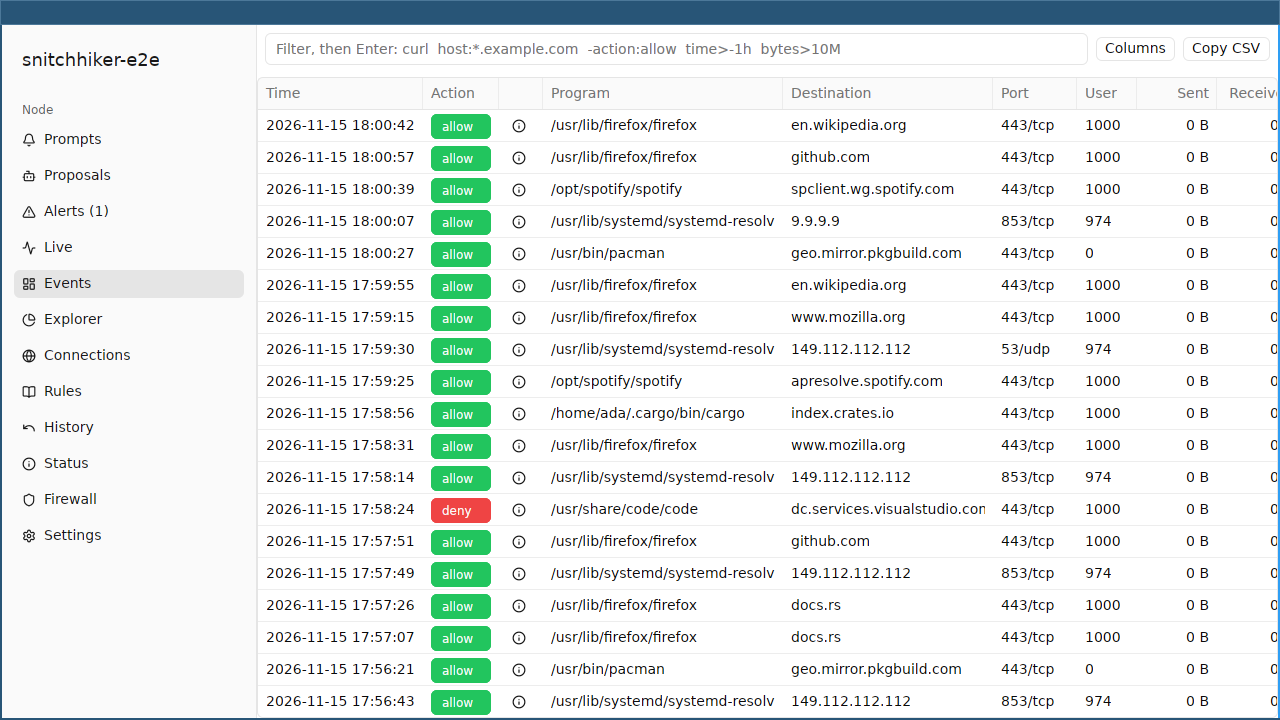
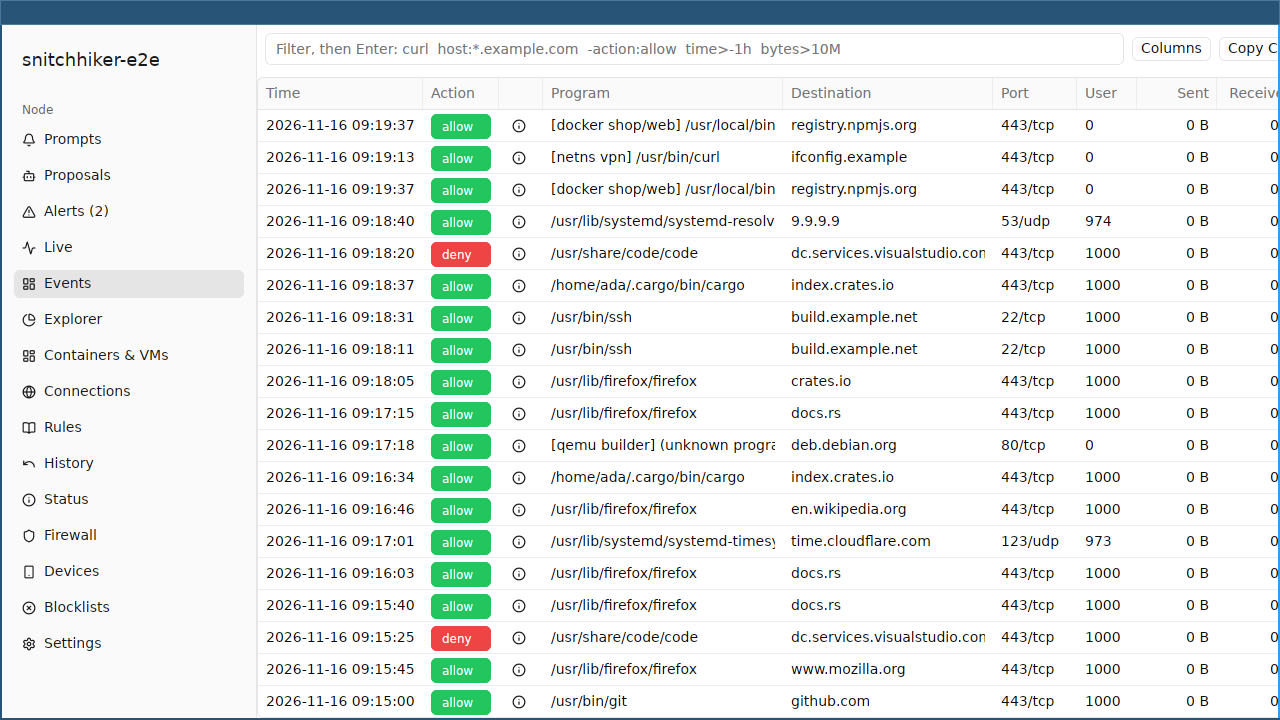
docs: every desktop screenshot regenerated, with the Containers & VMs and Blocklists pages
The synthetic history the screenshots are taken over now has containers,
a VM and a named namespace in it.

Claude-Session: https://claude.ai/code/session_01Wx31XDQ2mmh1TEejyx2oaC

diff --git a/crates/e2e/src/seed.rs b/crates/e2e/src/seed.rs
@@ -126,6 +126,65 @@ const PROGRAMS: [Program; 10] = [
     ),
 ];
 
+/// Connections from elsewhere than the host: (program, destination, address, port, context, identity key as the
+/// history keeps it, blocked). One connection in five comes from these.
+const ELSEWHERE: [(&str, &str, &str, u16, u8, &str, bool); 6] = [
+    (
+        "/usr/local/bin/node",
+        "api.stripe.example",
+        "203.0.113.70",
+        443,
+        1,
+        "docker\t4f1a2b3c4d5e\tshop-web-1\tdocker.io/library/node:22\tshop/web\t",
+        false,
+    ),
+    (
+        "/usr/local/bin/node",
+        "registry.npmjs.org",
+        "203.0.113.71",
+        443,
+        1,
+        "docker\t4f1a2b3c4d5e\tshop-web-1\tdocker.io/library/node:22\tshop/web\t",
+        false,
+    ),
+    (
+        "/usr/lib/postgresql/17/bin/postgres",
+        "telemetry.example.com",
+        "203.0.113.53",
+        443,
+        1,
+        "docker\t9c0d1e2f3a4b\tshop-db-1\tdocker.io/library/postgres:17\tshop/db\t",
+        true,
+    ),
+    (
+        "/usr/bin/dnf",
+        "mirrors.fedoraproject.org",
+        "203.0.113.72",
+        443,
+        1,
+        "podman\t7e8f9a0b1c2d\tfedora-toolbox-41\tregistry.fedoraproject.org/fedora-toolbox:41\t\t1000",
+        false,
+    ),
+    (
+        "",
+        "deb.debian.org",
+        "203.0.113.73",
+        80,
+        2,
+        "qemu\t5a1c7d0e-3b2f-4c6d-9e8f-0a1b2c3d4e5f\tbuilder\t\t\t",
+        false,
+    ),
+    (
+        "/usr/bin/curl",
+        "ifconfig.example",
+        "203.0.113.74",
+        443,
+        3,
+        "netns\t\tvpn\t\t\t",
+        false,
+    ),
+];
+
 /// Writes `count` connections over the last `days` into the database at `path`.
 pub fn seed(path: &str, count: u64, days: u64) -> Result<(), String> {
     let mut store = Store::open(Path::new(path)).map_err(|e| format!("{path}: {e}"))?;
@@ -172,6 +231,28 @@ pub fn seed(path: &str, count: u64, days: u64) -> Result<(), String> {
             .get(at(ports.len(), next(ports.len() as u64)))
             .copied()
             .unwrap_or(443);
+        let elsewhere = (next(5) == 0)
+            .then(|| ELSEWHERE.get(at(ELSEWHERE.len(), next(ELSEWHERE.len() as u64))))
+            .flatten();
+        if let Some(&(exe, host, address, port, context, key, blocked)) = elsewhere {
+            batch.push(Event {
+                time_ms: time,
+                exe: Arc::from(exe),
+                host: Some(Arc::from(host)),
+                uid: 0,
+                pid: 1000 + u32::try_from(next(30_000)).unwrap_or(0),
+                protocol: 6,
+                address: address.parse::<IpAddr>().map_err(|e| e.to_string())?,
+                port,
+                context,
+                action: if blocked { Action::Deny } else { Action::Allow },
+                source: Source::Rule,
+                rule: None,
+                cookie: None,
+                container: Some(Arc::from(key)),
+            });
+            continue;
+        }
         batch.push(Event {
             time_ms: time,
             exe: Arc::from(exe.replace("{home}", "/home/ada")),

diff --git a/site/src/content/docs/guides/containers.md b/site/src/content/docs/guides/containers.md
@@ -7,6 +7,8 @@ sidebar:
 
 Every connection has a **context**: the host, a container, a VM, or a named network namespace. Rules without a context hold on the host only, so allowing `/usr/bin/curl` doesn't let every `curl` in every container out. A container's connections are decided by the program in it (its path inside the container) and by the container itself: its runtime, name, image, labels and Compose service. Attribution is exact or it isn't made: what can't be known for certain is shown as unknown, and rules that need it don't match.
 
+![The Containers & VMs page: the containers, VM and named namespace connections came from, with their trends](../../../assets/screenshots/containers-light.png)
+
 ## Naming them in rules
 
 | Key | Holds for |

diff --git a/site/src/content/docs/guides/blocklists.md b/site/src/content/docs/guides/blocklists.md
@@ -5,6 +5,8 @@ description: Lists of ad, tracker and malware domains and addresses, fetched on 
 
 A blocklist is a list of domains or addresses kept up to date by someone else: ad and tracker lists, malware feeds, a team's own list on an internal server. The node fetches each list on a schedule, checks it, and keeps it; rules name it with the `list` condition.
 
+![The Blocklists page: a list, its source, entries and last fetch, and the rules naming it](../../../assets/screenshots/blocklists-light.png)
+
 ## Adding a list
 
 ```sh
